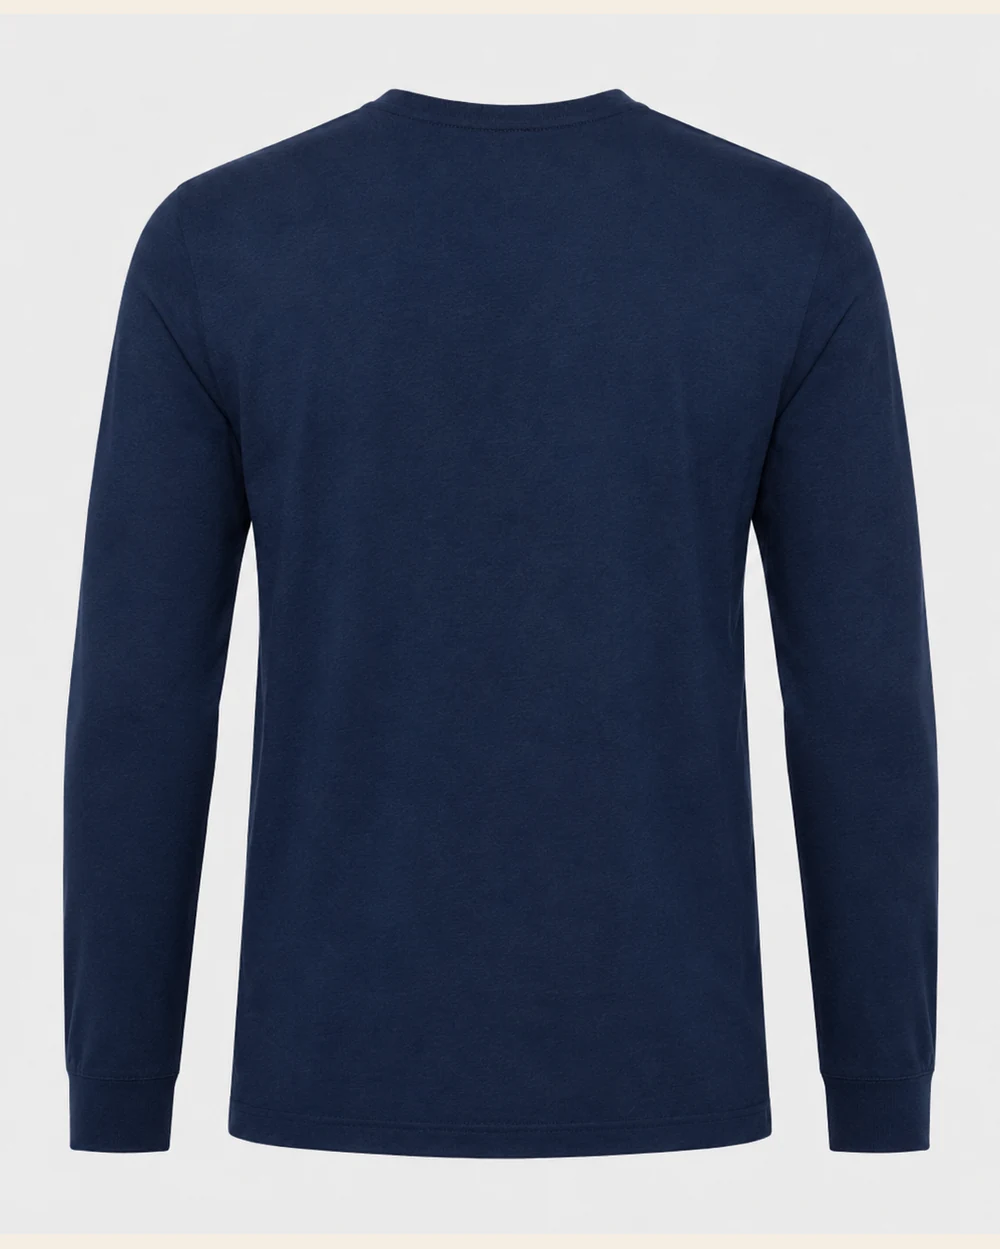
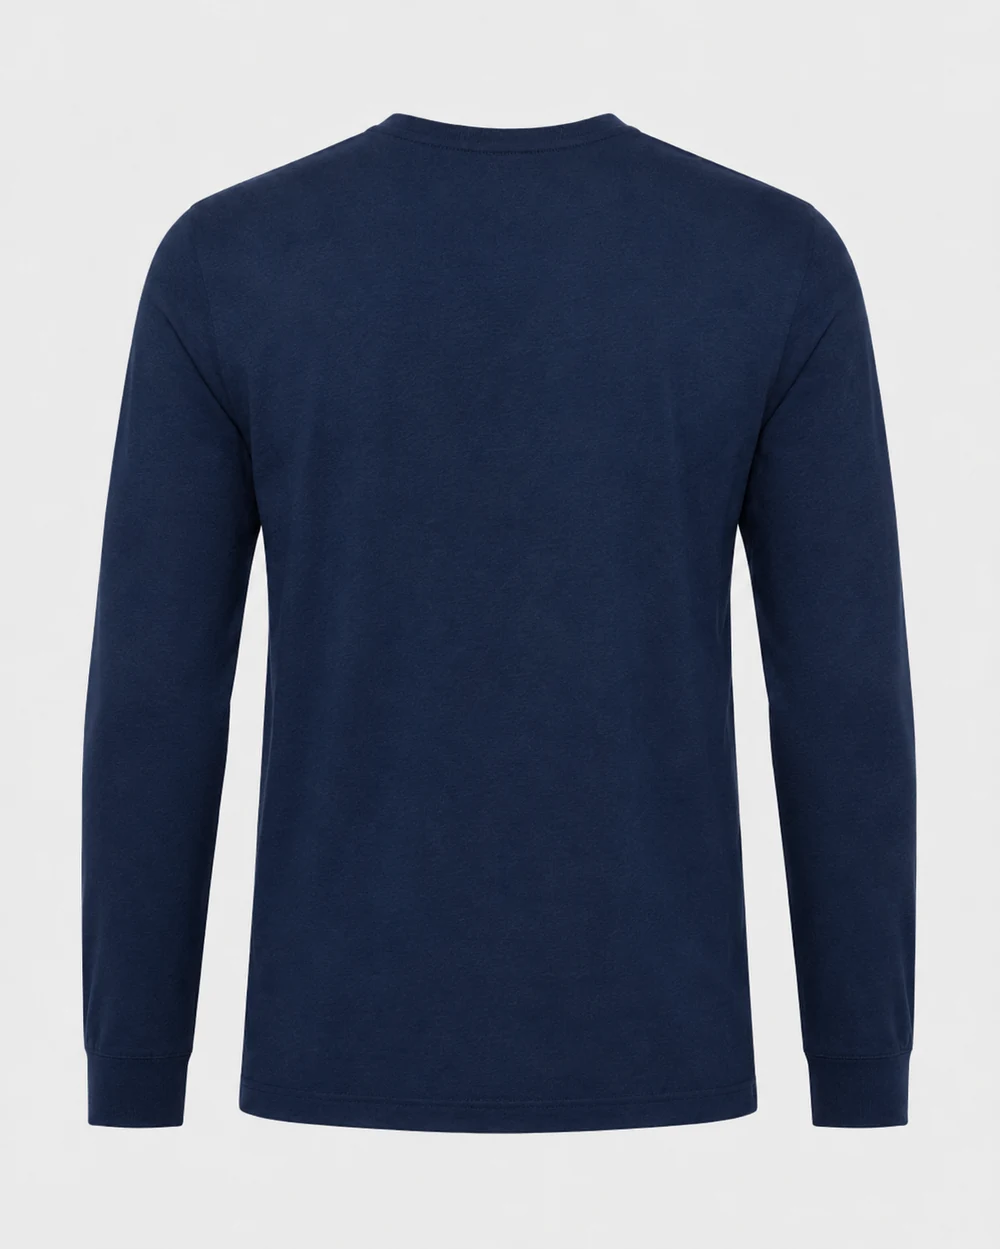
fix: crop más apretado, productos llenan el alto del catálogo
- Reduce padding del autocrop de 7% a 2-3% para que cada prenda llene
  el alto del canvas 4:5 (estilo Buzo con Capucha que sirvió de referencia)
- Todas las prendas se ven al mismo "zoom" relativo, sin tanto espacio en
  blanco crema alrededor
- 46 imágenes reprocesadas desde originales (7 MB total)

https://claude.ai/code/session_01HEXDpJccR3TfXVqUQu2rSV

Changed region(s): [[0.062, 0.0624, 0.961, 0.9367], [0.217, 0.3435, 0.248, 0.3747]]

diff --git a/site/camisa-industrial-mistral.html b/site/camisa-industrial-mistral.html
@@ -21,8 +21,8 @@
     <link rel="preconnect" href="https://fonts.gstatic.com" crossorigin>
     <link href="https://fonts.googleapis.com/css2?family=Inter:wght@400;500;600;700&family=Roboto+Slab:wght@500;700;800&display=swap" rel="stylesheet">
     <link rel="stylesheet" href="https://cdnjs.cloudflare.com/ajax/libs/font-awesome/6.5.1/css/all.min.css">
-    <link rel="stylesheet" href="css/style.css?v=1780635449">
-    <script src="js/pixels.js?v=1780635449"></script>
+    <link rel="stylesheet" href="css/style.css?v=1780635776">
+    <script src="js/pixels.js?v=1780635776"></script>
     <script type="application/ld+json">
     { "@context": "https://schema.org", "@type": "Product", "name": "Camisa Industrial Mistral 7.5oz", "image": "https://textilespelileo.com/img/galeria/camisa-1.webp", "description": "Camisa de trabajo en tela Mistral 7.5oz, 100% algodón sanforizada (no encoge), proceso stone y cinta reflectiva AAA con respaldo para seguridad industrial.", "brand": { "@type": "Brand", "name": "Textiles Pelileo" }, "material": "100% algodón Mistral 7.5oz", "offers": { "@type": "AggregateOffer", "priceCurrency": "USD", "lowPrice": "12", "highPrice": "16", "availability": "https://schema.org/InStock", "seller": { "@type": "Organization", "name": "Textiles Pelileo" } } }
     </script>
@@ -159,9 +159,9 @@
         </div>
     </section>
 
-    <script src="js/partials.js?v=1780635449"></script>
-    <script src="js/products.js?v=1780635449"></script>
-    <script src="js/main.js?v=1780635449"></script>
+    <script src="js/partials.js?v=1780635776"></script>
+    <script src="js/products.js?v=1780635776"></script>
+    <script src="js/main.js?v=1780635776"></script>
     <script>
         TP.renderProducts("#related-grid", { only: ["pantalon-premium-gregori.html", "uniformes-industriales.html", "bordados-corporativos.html"] });
         document.querySelectorAll("[data-wa]").forEach(function (a) { a.href = TP.wa(document.body.getAttribute("data-wa-msg")); });

diff --git a/site/uniformes-industriales.html b/site/uniformes-industriales.html
@@ -21,8 +21,8 @@
     <link rel="preconnect" href="https://fonts.gstatic.com" crossorigin>
     <link href="https://fonts.googleapis.com/css2?family=Inter:wght@400;500;600;700&family=Roboto+Slab:wght@500;700;800&display=swap" rel="stylesheet">
     <link rel="stylesheet" href="https://cdnjs.cloudflare.com/ajax/libs/font-awesome/6.5.1/css/all.min.css">
-    <link rel="stylesheet" href="css/style.css?v=1780635449">
-    <script src="js/pixels.js?v=1780635449"></script>
+    <link rel="stylesheet" href="css/style.css?v=1780635776">
+    <script src="js/pixels.js?v=1780635776"></script>
     <script type="application/ld+json">
     { "@context": "https://schema.org", "@type": "Product", "name": "Uniforme Industrial Completo", "image": "https://textilespelileo.com/img/uniforme-completo.webp", "description": "Uniforme de trabajo completo: camisa Mistral 7.5oz 100% algodón con reflectivo AAA + pantalón Gregori 14oz 100% algodón. Con opción de bordado de logotipo. Ideal para dotación de empresas.", "brand": { "@type": "Brand", "name": "Textiles Pelileo" }, "offers": { "@type": "Offer", "priceCurrency": "USD", "availability": "https://schema.org/InStock", "seller": { "@type": "Organization", "name": "Textiles Pelileo" } } }
     </script>
@@ -132,9 +132,9 @@
         </div>
     </section>
 
-    <script src="js/partials.js?v=1780635449"></script>
-    <script src="js/products.js?v=1780635449"></script>
-    <script src="js/main.js?v=1780635449"></script>
+    <script src="js/partials.js?v=1780635776"></script>
+    <script src="js/products.js?v=1780635776"></script>
+    <script src="js/main.js?v=1780635776"></script>
     <script>
         TP.renderProducts("#related-grid", { only: ["camisa-industrial-mistral.html", "pantalon-premium-gregori.html", "bordados-corporativos.html", "diseno-logotipo.html"] });
         document.querySelectorAll("[data-wa]").forEach(function (a) { a.href = TP.wa(document.body.getAttribute("data-wa-msg")); });

diff --git a/site/pantalon-gregori-12oz.html b/site/pantalon-gregori-12oz.html
@@ -21,8 +21,8 @@
     <link rel="preconnect" href="https://fonts.gstatic.com" crossorigin>
     <link href="https://fonts.googleapis.com/css2?family=Inter:wght@400;500;600;700&family=Roboto+Slab:wght@500;700;800&display=swap" rel="stylesheet">
     <link rel="stylesheet" href="https://cdnjs.cloudflare.com/ajax/libs/font-awesome/6.5.1/css/all.min.css">
-    <link rel="stylesheet" href="css/style.css?v=1780635449">
-    <script src="js/pixels.js?v=1780635449"></script>
+    <link rel="stylesheet" href="css/style.css?v=1780635776">
+    <script src="js/pixels.js?v=1780635776"></script>
     <script type="application/ld+json">
     { "@context": "https://schema.org", "@type": "Product", "name": "Pantalón Gregori 12oz", "image": "https://textilespelileo.com/img/pantalon-premium-2.webp", "description": "Pantalón de trabajo en tela Gregori 12oz, 100% algodón. Opción más ligera que el premium manteniendo la calidad Gregori. Disponible bajo pedido.", "brand": { "@type": "Brand", "name": "Textiles Pelileo" }, "offers": { "@type": "AggregateOffer", "priceCurrency": "USD", "lowPrice": "10", "highPrice": "15", "availability": "https://schema.org/PreOrder", "seller": { "@type": "Organization", "name": "Textiles Pelileo" } } }
     </script>
@@ -122,9 +122,9 @@
         </div>
     </section>
 
-    <script src="js/partials.js?v=1780635449"></script>
-    <script src="js/products.js?v=1780635449"></script>
-    <script src="js/main.js?v=1780635449"></script>
+    <script src="js/partials.js?v=1780635776"></script>
+    <script src="js/products.js?v=1780635776"></script>
+    <script src="js/main.js?v=1780635776"></script>
     <script>
         TP.renderProducts("#related-grid", { only: ["pantalon-premium-gregori.html", "pantalon-stretch.html", "camisa-industrial-mistral.html"] });
         document.querySelectorAll("[data-wa]").forEach(function (a) { a.href = TP.wa(document.body.getAttribute("data-wa-msg")); });

diff --git a/site/pantalon-stretch.html b/site/pantalon-stretch.html
@@ -21,8 +21,8 @@
     <link rel="preconnect" href="https://fonts.gstatic.com" crossorigin>
     <link href="https://fonts.googleapis.com/css2?family=Inter:wght@400;500;600;700&family=Roboto+Slab:wght@500;700;800&display=swap" rel="stylesheet">
     <link rel="stylesheet" href="https://cdnjs.cloudflare.com/ajax/libs/font-awesome/6.5.1/css/all.min.css">
-    <link rel="stylesheet" href="css/style.css?v=1780635449">
-    <script src="js/pixels.js?v=1780635449"></script>
+    <link rel="stylesheet" href="css/style.css?v=1780635776">
+    <script src="js/pixels.js?v=1780635776"></script>
     <script type="application/ld+json">
     { "@context": "https://schema.org", "@type": "Product", "name": "Pantalón Stretch de Trabajo", "image": "https://textilespelileo.com/img/pantalon-doblado.webp", "description": "Pantalón de trabajo en tela stretch de alta calidad. Mayor comodidad y movilidad, resistente y duradero para uso laboral intensivo.", "brand": { "@type": "Brand", "name": "Textiles Pelileo" }, "offers": { "@type": "AggregateOffer", "priceCurrency": "USD", "lowPrice": "12", "highPrice": "16", "availability": "https://schema.org/InStock", "seller": { "@type": "Organization", "name": "Textiles Pelileo" } } }
     </script>
@@ -147,9 +147,9 @@
         </div>
     </section>
 
-    <script src="js/partials.js?v=1780635449"></script>
-    <script src="js/products.js?v=1780635449"></script>
-    <script src="js/main.js?v=1780635449"></script>
+    <script src="js/partials.js?v=1780635776"></script>
+    <script src="js/products.js?v=1780635776"></script>
+    <script src="js/main.js?v=1780635776"></script>
     <script>
         TP.renderProducts("#related-grid", { only: ["pantalon-premium-gregori.html", "camisa-industrial-mistral.html", "uniformes-industriales.html"] });
         document.querySelectorAll("[data-wa]").forEach(function (a) { a.href = TP.wa(document.body.getAttribute("data-wa-msg")); });

diff --git a/site/chaleco-gabardina-rojo.html b/site/chaleco-gabardina-rojo.html
@@ -21,8 +21,8 @@
     <link rel="preconnect" href="https://fonts.gstatic.com" crossorigin>
     <link href="https://fonts.googleapis.com/css2?family=Inter:wght@400;500;600;700&family=Roboto+Slab:wght@500;700;800&display=swap" rel="stylesheet">
     <link rel="stylesheet" href="https://cdnjs.cloudflare.com/ajax/libs/font-awesome/6.5.1/css/all.min.css">
-    <link rel="stylesheet" href="css/style.css?v=1780635449">
-    <script src="js/pixels.js?v=1780635449"></script>
+    <link rel="stylesheet" href="css/style.css?v=1780635776">
+    <script src="js/pixels.js?v=1780635776"></script>
     <script type="application/ld+json">
     { "@context": "https://schema.org", "@type": "Product", "name": "Chaleco Gabardina Reflectivo Rojo", "image": "https://textilespelileo.com/img/galeria/chalecorojo-1.webp", "description": "Chaleco rojo en tela gabardina resistente con doble cinta reflectiva amarilla AAA. Diseñado para seguridad industrial y trabajos de alta visibilidad.", "brand": { "@type": "Brand", "name": "Textiles Pelileo" }, "offers": { "@type": "Offer", "priceCurrency": "USD", "availability": "https://schema.org/InStock", "seller": { "@type": "Organization", "name": "Textiles Pelileo" } } }
     </script>
@@ -119,9 +119,9 @@
         </div>
     </section>
 
-    <script src="js/partials.js?v=1780635449"></script>
-    <script src="js/products.js?v=1780635449"></script>
-    <script src="js/main.js?v=1780635449"></script>
+    <script src="js/partials.js?v=1780635776"></script>
+    <script src="js/products.js?v=1780635776"></script>
+    <script src="js/main.js?v=1780635776"></script>
     <script>
         TP.renderProducts("#related-grid", { only: ["chaleco-antifluidos-azul.html", "camisa-industrial-mistral.html", "uniformes-industriales.html"] });
         document.querySelectorAll("[data-wa]").forEach(function (a) { a.href = TP.wa(document.body.getAttribute("data-wa-msg")); });

diff --git a/site/buzo-capucha.html b/site/buzo-capucha.html
@@ -21,8 +21,8 @@
     <link rel="preconnect" href="https://fonts.gstatic.com" crossorigin>
     <link href="https://fonts.googleapis.com/css2?family=Inter:wght@400;500;600;700&family=Roboto+Slab:wght@500;700;800&display=swap" rel="stylesheet">
     <link rel="stylesheet" href="https://cdnjs.cloudflare.com/ajax/libs/font-awesome/6.5.1/css/all.min.css">
-    <link rel="stylesheet" href="css/style.css?v=1780635449">
-    <script src="js/pixels.js?v=1780635449"></script>
+    <link rel="stylesheet" href="css/style.css?v=1780635776">
+    <script src="js/pixels.js?v=1780635776"></script>
     <script type="application/ld+json">
     { "@context": "https://schema.org", "@type": "Product", "name": "Buzo con Capucha y Reflectivo", "image": "https://textilespelileo.com/img/galeria/buzocapucha-1.webp", "description": "Buzo manga larga con capucha en tela jersey, con cinta reflectiva incluida. Cómodo, resistente y personalizable.", "brand": { "@type": "Brand", "name": "Textiles Pelileo" }, "offers": { "@type": "AggregateOffer", "priceCurrency": "USD", "lowPrice": "11", "highPrice": "12", "availability": "https://schema.org/InStock", "seller": { "@type": "Organization", "name": "Textiles Pelileo" } } }
     </script>
@@ -134,9 +134,9 @@
         </div>
     </section>
 
-    <script src="js/partials.js?v=1780635449"></script>
-    <script src="js/products.js?v=1780635449"></script>
-    <script src="js/main.js?v=1780635449"></script>
+    <script src="js/partials.js?v=1780635776"></script>
+    <script src="js/products.js?v=1780635776"></script>
+    <script src="js/main.js?v=1780635776"></script>
     <script>
         TP.renderProducts("#related-grid", { only: ["buzo-pique.html", "camiseta-jersey.html", "bordados-corporativos.html"] });
         document.querySelectorAll("[data-wa]").forEach(function (a) { a.href = TP.wa(document.body.getAttribute("data-wa-msg")); });

diff --git a/site/camiseta-jersey.html b/site/camiseta-jersey.html
@@ -21,8 +21,8 @@
     <link rel="preconnect" href="https://fonts.gstatic.com" crossorigin>
     <link href="https://fonts.googleapis.com/css2?family=Inter:wght@400;500;600;700&family=Roboto+Slab:wght@500;700;800&display=swap" rel="stylesheet">
     <link rel="stylesheet" href="https://cdnjs.cloudflare.com/ajax/libs/font-awesome/6.5.1/css/all.min.css">
-    <link rel="stylesheet" href="css/style.css?v=1780635449">
-    <script src="js/pixels.js?v=1780635449"></script>
+    <link rel="stylesheet" href="css/style.css?v=1780635776">
+    <script src="js/pixels.js?v=1780635776"></script>
     <script type="application/ld+json">
     { "@context": "https://schema.org", "@type": "Product", "name": "Camiseta de Tela Jersey", "image": "https://textilespelileo.com/img/camiseta-jersey.webp", "description": "Camiseta básica de cuello redondo en tela jersey, cómoda, ligera y de colores duraderos. Ideal para personalizar con bordado.", "brand": { "@type": "Brand", "name": "Textiles Pelileo" }, "offers": { "@type": "AggregateOffer", "priceCurrency": "USD", "lowPrice": "6", "highPrice": "7", "availability": "https://schema.org/InStock", "seller": { "@type": "Organization", "name": "Textiles Pelileo" } } }
     </script>
@@ -134,9 +134,9 @@
         </div>
     </section>
 
-    <script src="js/partials.js?v=1780635449"></script>
-    <script src="js/products.js?v=1780635449"></script>
-    <script src="js/main.js?v=1780635449"></script>
+    <script src="js/partials.js?v=1780635776"></script>
+    <script src="js/products.js?v=1780635776"></script>
+    <script src="js/main.js?v=1780635776"></script>
     <script>
         TP.renderProducts("#related-grid", { only: ["buzo-pique.html", "camisetas-buzos.html", "bordados-corporativos.html"] });
         document.querySelectorAll("[data-wa]").forEach(function (a) { a.href = TP.wa(document.body.getAttribute("data-wa-msg")); });

diff --git a/site/buzo-pique.html b/site/buzo-pique.html
@@ -21,8 +21,8 @@
     <link rel="preconnect" href="https://fonts.gstatic.com" crossorigin>
     <link href="https://fonts.googleapis.com/css2?family=Inter:wght@400;500;600;700&family=Roboto+Slab:wght@500;700;800&display=swap" rel="stylesheet">
     <link rel="stylesheet" href="https://cdnjs.cloudflare.com/ajax/libs/font-awesome/6.5.1/css/all.min.css">
-    <link rel="stylesheet" href="css/style.css?v=1780635449">
-    <script src="js/pixels.js?v=1780635449"></script>
+    <link rel="stylesheet" href="css/style.css?v=1780635776">
+    <script src="js/pixels.js?v=1780635776"></script>
     <script type="application/ld+json">
     { "@context": "https://schema.org", "@type": "Product", "name": "Buzo Polo Piqué", "image": "https://textilespelileo.com/img/galeria/buzopique-1.webp", "description": "Buzo en tela polo piqué premium, costuras reforzadas y acabado de calidad. Opción con capucha y cinta reflectiva.", "brand": { "@type": "Brand", "name": "Textiles Pelileo" }, "offers": { "@type": "AggregateOffer", "priceCurrency": "USD", "lowPrice": "9", "highPrice": "10", "availability": "https://schema.org/InStock", "seller": { "@type": "Organization", "name": "Textiles Pelileo" } } }
     </script>
@@ -134,9 +134,9 @@
         </div>
     </section>
 
-    <script src="js/partials.js?v=1780635449"></script>
-    <script src="js/products.js?v=1780635449"></script>
-    <script src="js/main.js?v=1780635449"></script>
+    <script src="js/partials.js?v=1780635776"></script>
+    <script src="js/products.js?v=1780635776"></script>
+    <script src="js/main.js?v=1780635776"></script>
     <script>
         TP.renderProducts("#related-grid", { only: ["camiseta-jersey.html", "camisetas-buzos.html", "bordados-corporativos.html"] });
         document.querySelectorAll("[data-wa]").forEach(function (a) { a.href = TP.wa(document.body.getAttribute("data-wa-msg")); });

diff --git a/site/camiseta-polo-pique.html b/site/camiseta-polo-pique.html
@@ -21,8 +21,8 @@
     <link rel="preconnect" href="https://fonts.gstatic.com" crossorigin>
     <link href="https://fonts.googleapis.com/css2?family=Inter:wght@400;500;600;700&family=Roboto+Slab:wght@500;700;800&display=swap" rel="stylesheet">
     <link rel="stylesheet" href="https://cdnjs.cloudflare.com/ajax/libs/font-awesome/6.5.1/css/all.min.css">
-    <link rel="stylesheet" href="css/style.css?v=1780635449">
-    <script src="js/pixels.js?v=1780635449"></script>
+    <link rel="stylesheet" href="css/style.css?v=1780635776">
+    <script src="js/pixels.js?v=1780635776"></script>
     <script type="application/ld+json">
     { "@context": "https://schema.org", "@type": "Product", "name": "Camiseta Polo Piqué", "image": "https://textilespelileo.com/img/galeria/cpique-1.webp", "description": "Camiseta polo manga corta en tela piqué premium con cuello polo clásico, costuras reforzadas. Ideal para personalizar.", "brand": { "@type": "Brand", "name": "Textiles Pelileo" }, "offers": { "@type": "AggregateOffer", "priceCurrency": "USD", "lowPrice": "8", "highPrice": "9", "availability": "https://schema.org/InStock", "seller": { "@type": "Organization", "name": "Textiles Pelileo" } } }
     </script>
@@ -134,9 +134,9 @@
         </div>
     </section>
 
-    <script src="js/partials.js?v=1780635449"></script>
-    <script src="js/products.js?v=1780635449"></script>
-    <script src="js/main.js?v=1780635449"></script>
+    <script src="js/partials.js?v=1780635776"></script>
+    <script src="js/products.js?v=1780635776"></script>
+    <script src="js/main.js?v=1780635776"></script>
     <script>
         TP.renderProducts("#related-grid", { only: ["buzo-pique.html", "camiseta-jersey.html", "bordados-corporativos.html"] });
         document.querySelectorAll("[data-wa]").forEach(function (a) { a.href = TP.wa(document.body.getAttribute("data-wa-msg")); });

diff --git a/site/pantalon-economico-empresarial.html b/site/pantalon-economico-empresarial.html
@@ -21,8 +21,8 @@
     <link rel="preconnect" href="https://fonts.gstatic.com" crossorigin>
     <link href="https://fonts.googleapis.com/css2?family=Inter:wght@400;500;600;700&family=Roboto+Slab:wght@500;700;800&display=swap" rel="stylesheet">
     <link rel="stylesheet" href="https://cdnjs.cloudflare.com/ajax/libs/font-awesome/6.5.1/css/all.min.css">
-    <link rel="stylesheet" href="css/style.css?v=1780635449">
-    <script src="js/pixels.js?v=1780635449"></script>
+    <link rel="stylesheet" href="css/style.css?v=1780635776">
+    <script src="js/pixels.js?v=1780635776"></script>
     <script type="application/ld+json">
     { "@context": "https://schema.org", "@type": "Product", "name": "Pantalón Económico Empresarial", "description": "Pantalón de trabajo pensado para dotación de empresas y cuadrillas con presupuesto ajustado. Disponible solo bajo pedido por mayor.", "brand": { "@type": "Brand", "name": "Textiles Pelileo" }, "offers": { "@type": "AggregateOffer", "priceCurrency": "USD", "lowPrice": "9", "highPrice": "10", "availability": "https://schema.org/PreOrder", "seller": { "@type": "Organization", "name": "Textiles Pelileo" } } }
     </script>
@@ -122,9 +122,9 @@
         </div>
     </section>
 
-    <script src="js/partials.js?v=1780635449"></script>
-    <script src="js/products.js?v=1780635449"></script>
-    <script src="js/main.js?v=1780635449"></script>
+    <script src="js/partials.js?v=1780635776"></script>
+    <script src="js/products.js?v=1780635776"></script>
+    <script src="js/main.js?v=1780635776"></script>
     <script>
         TP.renderProducts("#related-grid", { only: ["pantalon-premium-gregori.html", "camisa-industrial-mistral.html", "uniformes-industriales.html"] });
         document.querySelectorAll("[data-wa]").forEach(function (a) { a.href = TP.wa(document.body.getAttribute("data-wa-msg")); });

diff --git a/site/chaleco-antifluidos-azul.html b/site/chaleco-antifluidos-azul.html
@@ -21,8 +21,8 @@
     <link rel="preconnect" href="https://fonts.gstatic.com" crossorigin>
     <link href="https://fonts.googleapis.com/css2?family=Inter:wght@400;500;600;700&family=Roboto+Slab:wght@500;700;800&display=swap" rel="stylesheet">
     <link rel="stylesheet" href="https://cdnjs.cloudflare.com/ajax/libs/font-awesome/6.5.1/css/all.min.css">
-    <link rel="stylesheet" href="css/style.css?v=1780635449">
-    <script src="js/pixels.js?v=1780635449"></script>
+    <link rel="stylesheet" href="css/style.css?v=1780635776">
+    <script src="js/pixels.js?v=1780635776"></script>
     <script type="application/ld+json">
     { "@context": "https://schema.org", "@type": "Product", "name": "Chaleco Antifluidos Reflectivo Azul", "image": "https://textilespelileo.com/img/galeria/chalecoazul-1.webp", "description": "Chaleco azul marino en tela antifluidos que repele el agua, con cinta reflectiva AAA de alta visibilidad.", "brand": { "@type": "Brand", "name": "Textiles Pelileo" }, "offers": { "@type": "Offer", "priceCurrency": "USD", "availability": "https://schema.org/InStock", "seller": { "@type": "Organization", "name": "Textiles Pelileo" } } }
     </script>
@@ -119,9 +119,9 @@
         </div>
     </section>
 
-    <script src="js/partials.js?v=1780635449"></script>
-    <script src="js/products.js?v=1780635449"></script>
-    <script src="js/main.js?v=1780635449"></script>
+    <script src="js/partials.js?v=1780635776"></script>
+    <script src="js/products.js?v=1780635776"></script>
+    <script src="js/main.js?v=1780635776"></script>
     <script>
         TP.renderProducts("#related-grid", { only: ["chaleco-gabardina-rojo.html", "camisa-industrial-mistral.html", "uniformes-industriales.html"] });
         document.querySelectorAll("[data-wa]").forEach(function (a) { a.href = TP.wa(document.body.getAttribute("data-wa-msg")); });

diff --git a/site/camisetas-buzos.html b/site/camisetas-buzos.html
@@ -21,8 +21,8 @@
     <link rel="preconnect" href="https://fonts.gstatic.com" crossorigin>
     <link href="https://fonts.googleapis.com/css2?family=Inter:wght@400;500;600;700&family=Roboto+Slab:wght@500;700;800&display=swap" rel="stylesheet">
     <link rel="stylesheet" href="https://cdnjs.cloudflare.com/ajax/libs/font-awesome/6.5.1/css/all.min.css">
-    <link rel="stylesheet" href="css/style.css?v=1780635449">
-    <script src="js/pixels.js?v=1780635449"></script>
+    <link rel="stylesheet" href="css/style.css?v=1780635776">
+    <script src="js/pixels.js?v=1780635776"></script>
     <script type="application/ld+json">
     { "@context": "https://schema.org", "@type": "Product", "name": "Camisetas y Buzos de Trabajo", "description": "Camisetas y buzos en tela jersey y polo piqué, con opción de capucha y cinta reflectiva. Ideales para personalizar con logotipo.", "brand": { "@type": "Brand", "name": "Textiles Pelileo" }, "offers": { "@type": "AggregateOffer", "priceCurrency": "USD", "lowPrice": "6", "highPrice": "10", "availability": "https://schema.org/InStock", "seller": { "@type": "Organization", "name": "Textiles Pelileo" } } }
     </script>
@@ -134,9 +134,9 @@
         </div>
     </section>
 
-    <script src="js/partials.js?v=1780635449"></script>
-    <script src="js/products.js?v=1780635449"></script>
-    <script src="js/main.js?v=1780635449"></script>
+    <script src="js/partials.js?v=1780635776"></script>
+    <script src="js/products.js?v=1780635776"></script>
+    <script src="js/main.js?v=1780635776"></script>
     <script>
         TP.renderProducts("#related-grid", { only: ["camisa-industrial-mistral.html", "bordados-corporativos.html", "uniformes-industriales.html"] });
         document.querySelectorAll("[data-wa]").forEach(function (a) { a.href = TP.wa(document.body.getAttribute("data-wa-msg")); });
